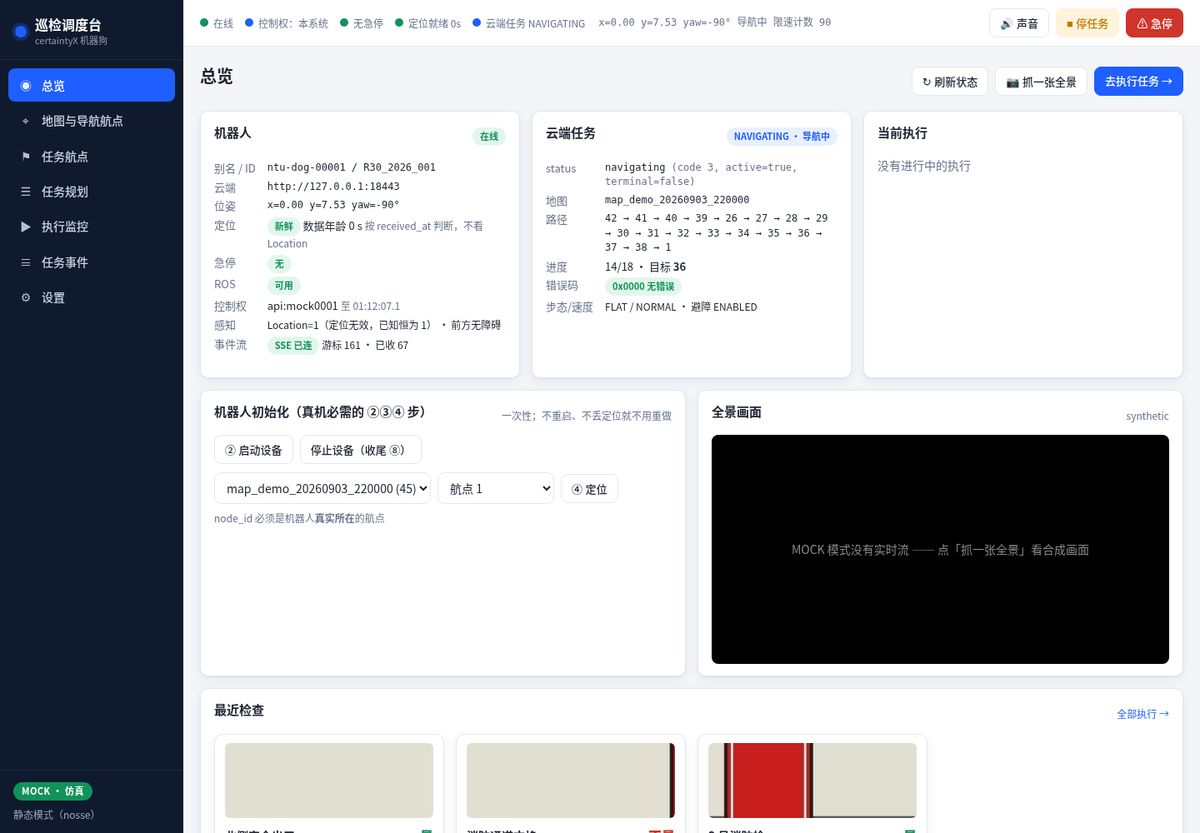
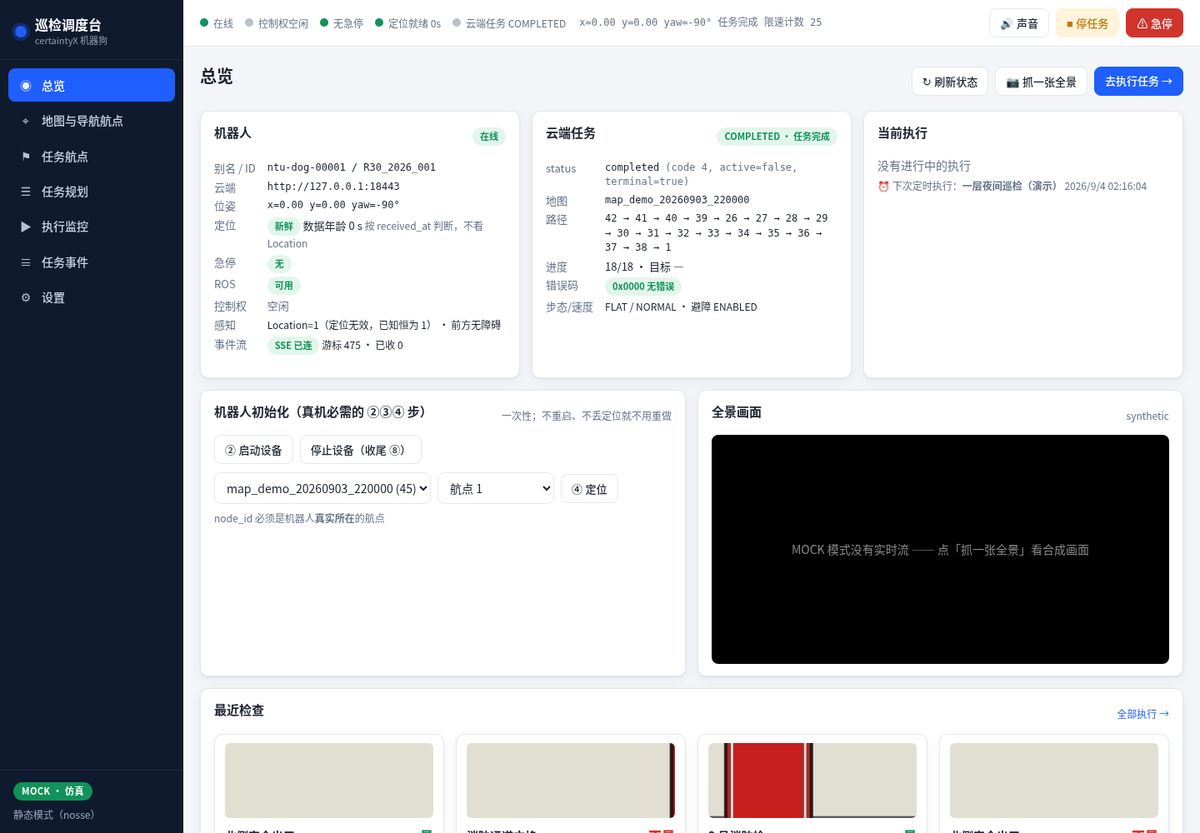
docs: 截图集刷新到 v0.2.0 界面

diff --git a/docs/SCREENSHOTS.md b/docs/SCREENSHOTS.md
@@ -2,12 +2,12 @@
 
 | 页面 | 图 | 说明 |
 |------|----|------|
-| 总览 | ![](screenshots/01-dashboard.jpg) | 机器人卡片（定位按 received_at 判断）、云端任务语义字段、初始化三步、最近检查 |
+| 总览 | ![](screenshots/01-dashboard.jpg) | 机器人卡片（定位按 received_at 判断）、云端任务语义字段、初始化三步、最近检查、近 30 天按航点统计、下次定时执行 |
 | 地图与导航航点 | ![](screenshots/02-map.jpg) | 导航航点 + 邻接边 + 任务航点（菱形）+ 机器人 + 点云背景（体素下采样） |
 | 任务航点 | ![](screenshots/03-waypoints.jpg) | 单表 CRUD，参考图缩略图、角度范围、prompt、期望回答 |
 | 任务航点编辑器 | ![](screenshots/04-waypoint-editor.jpg) | 两条可拖拽黄线圈出全景角度范围，蓝色虚线为机头方向；答案模版三句播报可试听；试问 VLM |
-| 任务规划 | ![](screenshots/05-tasks.jpg) | 任务列表：执行 / 路线预览 / 编辑 / 删除 |
-| 执行监控（完成） | ![](screenshots/06-run-completed.jpg) | 分段进度（幂等键、下发/到达时刻）、轨迹小地图、检查结果（带范围标注的全景 + 裁切 + 回答 + 播报） |
+| 任务规划 | ![](screenshots/05-tasks.jpg) | 任务列表：执行 / 路线预览 / ⏰ 定时 / 编辑 / 删除 |
+| 执行监控（完成） | ![](screenshots/06-run-completed.jpg) | 分段进度（幂等键、下发/到达时刻）、轨迹小地图、检查结果（带范围标注的全景 + 裁切 + 回答 + 播报 + 人工复核）、本次事件（可导出 CSV） |
 | 执行监控（失败） | ![](screenshots/07-run-failed.jpg) | 第 1 段避障失败 0x234B，后续段中止；右上角「从某航点重跑剩余航点」 |
 | 任务事件 | ![](screenshots/08-events.jpg) | 云端 + 系统事件统一时间线，可筛选、实时追加 |
-| 设置 | ![](screenshots/09-settings.jpg) | 连接 / VLM / TTS / 抓图；机头校准；系统自检；演示场景开关 |
+| 设置 | ![](screenshots/09-settings.jpg) | 连接 / VLM / TTS / 抓图 / 通知 / 定时器；机头校准；系统自检；备份 / 迁移；演示场景开关 |
